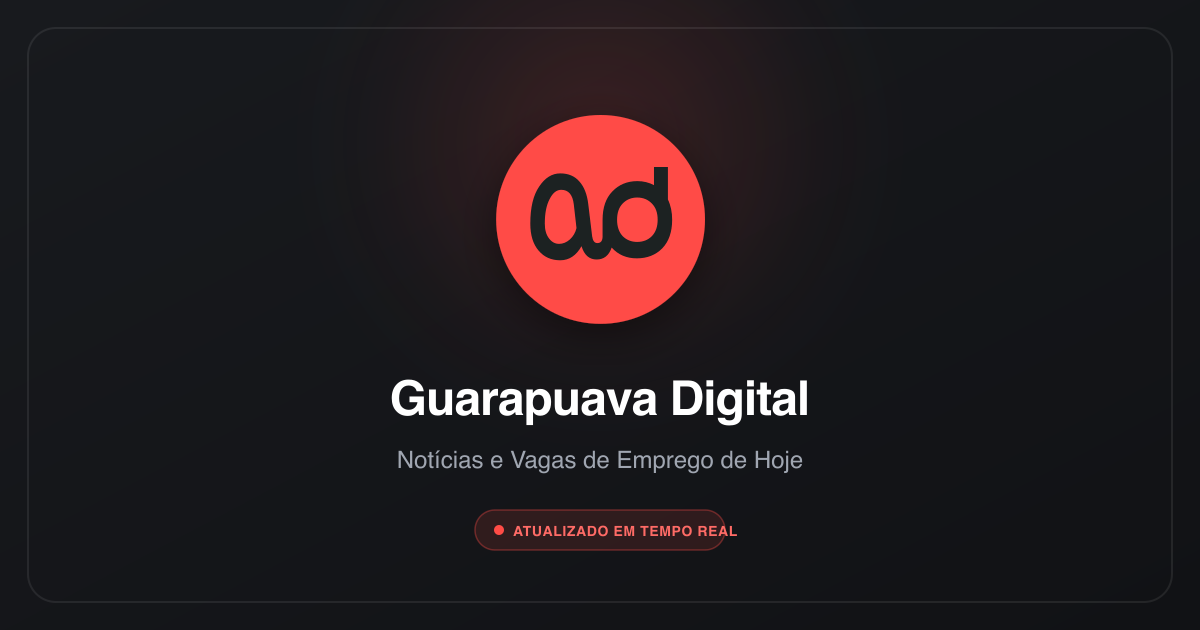
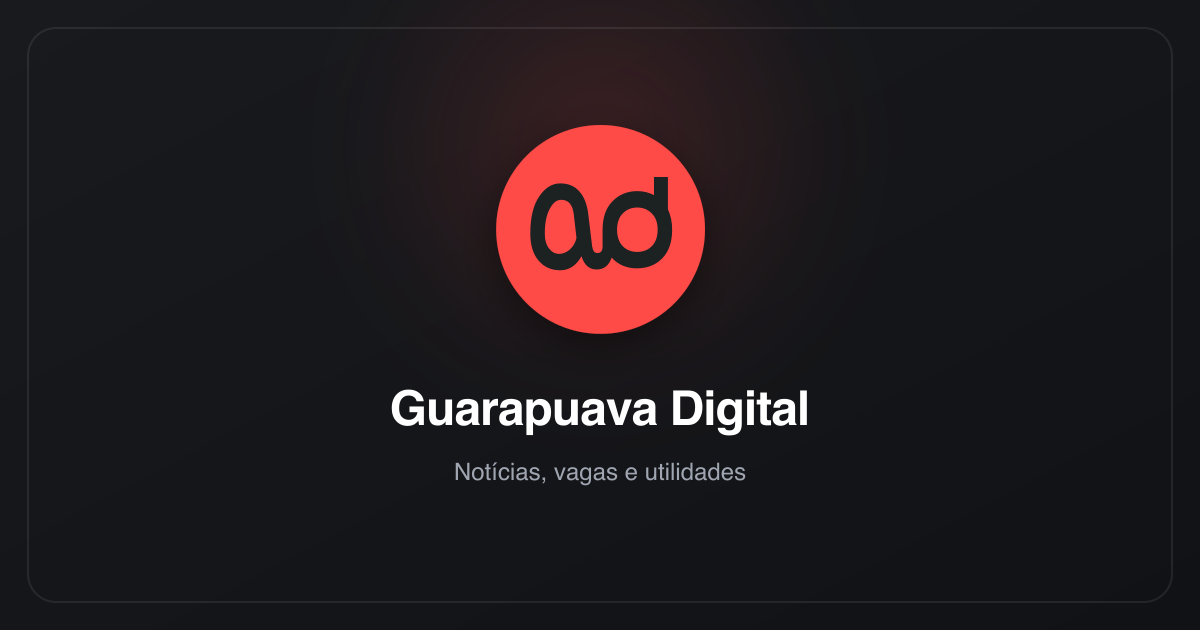
feat(seo): simplificar titulo e atualizar metadados e imagem og

diff --git a/scripts/generate-brand-assets.js b/scripts/generate-brand-assets.js
@@ -118,29 +118,22 @@ async function generateAll() {
 
     <!-- Fundo Escuro Neumórfico -->
     <rect width="1200" height="630" fill="url(#ogBg)" />
-    <circle cx="600" cy="225" r="340" fill="url(#ogGlow)" />
+    <circle cx="600" cy="230" r="340" fill="url(#ogGlow)" />
 
     <!-- Moldura Sutil de Cartão -->
     <rect x="28" y="28" width="1144" height="574" rx="28" fill="none" stroke="rgba(255, 255, 255, 0.08)" stroke-width="2" />
 
     <!-- Logo Centralizada com Sombra Suave (210x210 a partir de 182x182) -->
     <g filter="url(#dropShadow)">
-      <g transform="translate(495, 115) scale(1.1538)">
+      <g transform="translate(495, 125) scale(1.1538)">
         ${rawSvgInner}
       </g>
     </g>
 
     <!-- Títulos e Tipografia -->
-    <text x="600" y="415" text-anchor="middle" fill="#FFFFFF" font-family="-apple-system, BlinkMacSystemFont, 'Segoe UI', Roboto, Helvetica, Arial, sans-serif" font-size="48" font-weight="700" letter-spacing="-1">Guarapuava Digital</text>
+    <text x="600" y="425" text-anchor="middle" fill="#FFFFFF" font-family="-apple-system, BlinkMacSystemFont, 'Segoe UI', Roboto, Helvetica, Arial, sans-serif" font-size="48" font-weight="700" letter-spacing="-1">Guarapuava Digital</text>
     
-    <text x="600" y="468" text-anchor="middle" fill="#a0a6b1" font-family="-apple-system, BlinkMacSystemFont, 'Segoe UI', Roboto, Helvetica, Arial, sans-serif" font-size="24" font-weight="400">Notícias e Vagas de Emprego de Hoje</text>
-
-    <!-- Badge Pill -->
-    <g transform="translate(475, 510)">
-      <rect width="250" height="40" rx="20" fill="rgba(255, 76, 70, 0.12)" stroke="rgba(255, 76, 70, 0.35)" stroke-width="1.5" />
-      <circle cx="24" cy="20" r="5" fill="#FF4C46" />
-      <text x="38" y="26" fill="#FF6B66" font-family="-apple-system, BlinkMacSystemFont, 'Segoe UI', Roboto, Helvetica, Arial, sans-serif" font-size="14" font-weight="600" letter-spacing="0.6">ATUALIZADO EM TEMPO REAL</text>
-    </g>
+    <text x="600" y="480" text-anchor="middle" fill="#a0a6b1" font-family="-apple-system, BlinkMacSystemFont, 'Segoe UI', Roboto, Helvetica, Arial, sans-serif" font-size="24" font-weight="400">Notícias, vagas e utilidades</text>
   </svg>
   `;
 

diff --git a/src/app/layout.tsx b/src/app/layout.tsx
@@ -15,9 +15,9 @@ const geistMono = Geist_Mono({
 
 export const metadata: Metadata = {
   metadataBase: new URL("https://guarapuava.digital"),
-  title: "Guarapuava Digital — Notícias e Vagas de Hoje",
+  title: "Guarapuava Digital",
   description:
-    "Resumo diário e atualizado em tempo real das principais notícias e vagas de emprego de Guarapuava.",
+    "Se atualize e utilize ferramentas criadas para todos os moradores de Guarapuava.",
   icons: {
     icon: [
       { url: "/icon.svg", type: "image/svg+xml" },
@@ -28,9 +28,9 @@ export const metadata: Metadata = {
     ],
   },
   openGraph: {
-    title: "Guarapuava Digital — Notícias e Vagas de Hoje",
+    title: "Guarapuava Digital",
     description:
-      "Resumo diário e atualizado em tempo real das principais notícias e vagas de emprego de Guarapuava.",
+      "Se atualize e utilize ferramentas criadas para todos os moradores de Guarapuava.",
     url: "https://guarapuava.digital",
     siteName: "Guarapuava Digital",
     locale: "pt_BR",
@@ -40,15 +40,15 @@ export const metadata: Metadata = {
         url: "/og-image.png",
         width: 1200,
         height: 630,
-        alt: "Guarapuava Digital — Notícias e Vagas de Hoje",
+        alt: "Guarapuava Digital",
       },
     ],
   },
   twitter: {
     card: "summary_large_image",
-    title: "Guarapuava Digital — Notícias e Vagas de Hoje",
+    title: "Guarapuava Digital",
     description:
-      "Resumo diário e atualizado em tempo real das principais notícias e vagas de emprego de Guarapuava.",
+      "Se atualize e utilize ferramentas criadas para todos os moradores de Guarapuava.",
     images: ["/og-image.png"],
   },
   manifest: "/manifest.webmanifest",

diff --git a/src/app/manifest.ts b/src/app/manifest.ts
@@ -2,10 +2,10 @@ import type { MetadataRoute } from "next";
 
 export default function manifest(): MetadataRoute.Manifest {
   return {
-    name: "Guarapuava Digital — Notícias e Vagas de Hoje",
+    name: "Guarapuava Digital",
     short_name: "Guarapuava Digital",
     description:
-      "Resumo diário e atualizado em tempo real das principais notícias e vagas de emprego de Guarapuava.",
+      "Se atualize e utilize ferramentas criadas para todos os moradores de Guarapuava.",
     start_url: "/",
     display: "standalone",
     background_color: "#16181b",
